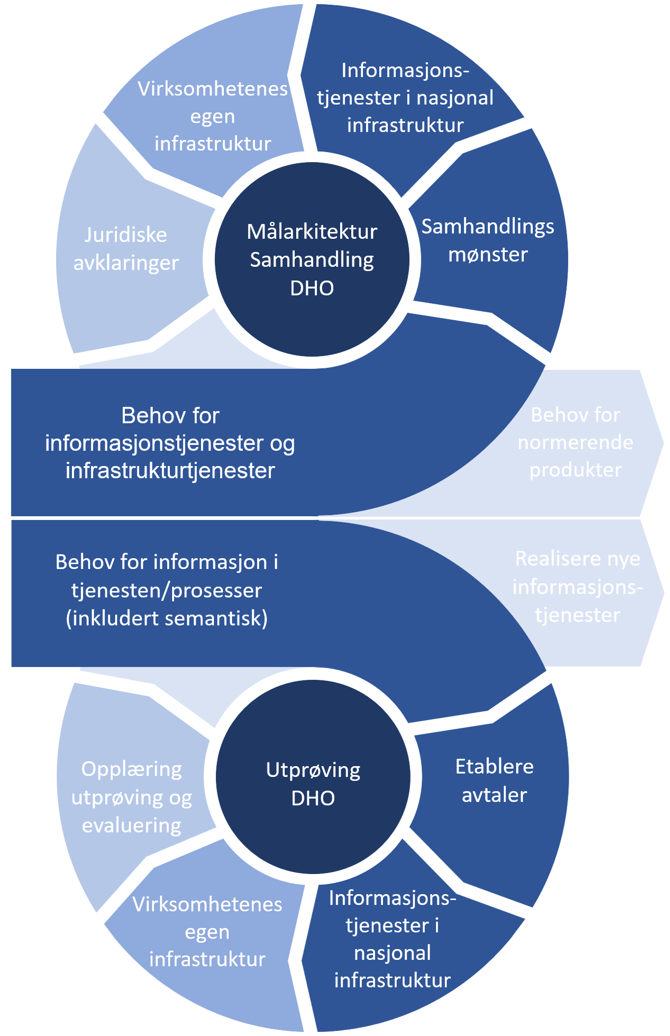
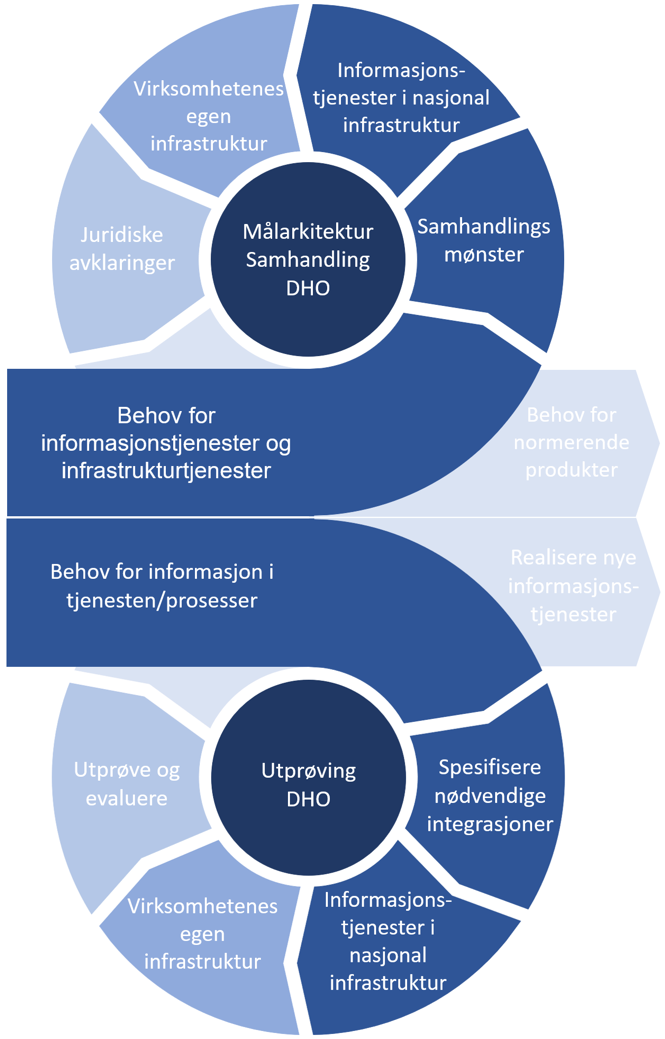
Revidere Metode og forvaltning

diff --git a/docs/Metode-og-forvaltning.md b/docs/Metode-og-forvaltning.md
@@ -4,22 +4,32 @@ title: Metode og forvaltning
 
 | Status | Version | Maturity | Normative level |
 |:-------------|:------------------|:------|:-------|
-| <span style="background-color:gold">Work in progress</span> | v0.1 | draft  | ikke normert |
+| <span style="background-color:gold">Work in progress</span> | v0.3 | draft  | ikke normert |
 
 ## Metode for utvikling av målarkitekturen
-Det er lagt til grunn smidig metodikk i utviklingen av målarkitekturen der utprøving av datadeleing og utforming av målarkitektur gjennomføres i parallell. Se figur under.
+
+Det er lagt til grunn smidig metodikk i utviklingen av målarkitekturen der utprøving av datadeling i konkrete utprøvings- og sprednings-aktiviteter knyttet til Nasjonalt velferdsteknologiprogramm og utforming av målarkitektur gjennomføres i parallell. Se figur under.
 
 ![Metode](img/metode.png){ width="500" }
 
-Gjennom dialog med helsepersonell i helsetjenesten som har etablert tjenesteforløp er behov for samhandling og informasjonsdeling identifisert og verifisert. Behovsforståelsen bygger på allerede gjennomførte kartlegginger og oppdateres løpende basert på praktiske erfaringer. 
+### Utprøving og spredningsaktiviteter i NVP
 
-Gjennom arbeidet i Nasjonalt velferdsteknologiprogram (NVP) er det identifisert utprøvingskandidater som har identifisert samhandlingsbehov på tvers av aktører og omsorgsnivå. Gjennom utvalgte utprøvingsprosjekter er velferdsteknologisk knutepunkt (VKP) benyttet for å håndtere dataflyt mellom DHO-systemer/ Medisinsk utstyr og andre fagsystem som elektroniske journalsystemer. Behovet for samhandling rundt Målinger (data fra pasient) har vært fokus for utprøving med bruk av kodeverk og terminologi/ spesifikasjoner som kan danne grunnlag for videreutvikling av normerende produkter og nasjonale samhandlingsløsninger. Målet for utprøvingsaktivitetene har vært å jobbe smidig og behovsdrevet med hyppige leveranser for å få testet ut ny funksjonalitet så langt det er mulig. Det er jobbet med utprøving ut fra en tre trinns rakett der første steg har vært journalføring, neste steg overføring av målinger fra utstyr til journal og siste steg deling av målinger. Erfaringer fra utprøvingene gir grunnlag for videreutvikling av målarkitekturen og målarkitetkuren gir rammer for utprøvingene. 
+Gjennom arbeidet i Nasjonalt velferdsteknologiprogram (NVP) er det identifisert utprøvingskandidater som har identifisert samhandlingsbehov på tvers av aktører og omsorgsnivå. Gjennom utvalgte utprøvingsprosjekter er velferdsteknologisk knutepunkt (VKP) benyttet for å håndtere dataflyt mellom DHO-systemer/ Medisinsk utstyr og andre fagsystem som elektroniske journalsystemer. Behovet for samhandling rundt Målinger (data fra pasient) har vært fokus for utprøving med bruk av kodeverk og terminologi/ spesifikasjoner som kan danne grunnlag for videreutvikling av normerende produkter og nasjonale samhandlingsløsninger. Målet for utprøvingsaktivitetene har vært å jobbe smidig og behovsdrevet med hyppige leveranser for å få testet ut ny funksjonalitet så langt det er mulig. Det er jobbet med utprøving ut fra en tre trinns rakett der første steg har vært journalføring, neste steg overføring av målinger fra utstyr til journal og siste steg deling av målinger. Erfaringer fra utprøvingene gir grunnlag for videreutvikling av målarkitekturen og målarkitetkuren gir rammer for utprøvingene.  
 
-Arbeidet vil sette retning for videre utprøvingsaktiviteter og definere rammer for utprøvingsktivetetene (juridiske, semantiske, tekniske)
+### Koblingen mellom utprøving og målarkitektur
 
-Det har vært etablert en arbeidsgruppe med representanter fra de fire regionale helseforetakene, KS, NHN, Helseforetak og utvalgte kommuner som har bidratt med innspill til arbeidet med målarkitekturen. 
+Gjennom dialog med helsepersonell i helsetjenesten som har etablert tjenesteforløp er behov for samhandling og informasjonsdeling identifisert og verifisert. Behovsforståelsen bygger på allerede gjennomførte kartlegginger og oppdateres løpende basert på praktiske erfaringer med å realisere nye tjenester som understøttes av nye informasjonstjenester som tas i bruk i helsetjenesten. Behovsarbeidet som gjennomføres i utprøvings- og sprednings-aktivitetene har vært viktige innspill til behovsarbeidet knyttet til målarkitekturen for datadeling DHO. Forskjellen er at konkret informasjonsbehov i tjenesteforløpene er "oversatt" til behov for og prioritering av informasjonstjenester i målarkitekturen.
+
+I det videre arbeidet har behovene som er sammenstilt blitt analysert og ligger til grunn for valg av samhandlingsmønster og behov for informasjonstjenester som må implementeres som fellestjenester eller informasjonstjenester i virksomhetenes infrastruktur. Dette arbeidet har ført til konkrete konsepter som er vurdert i forhold til gjeldende rett. Til slutt peker målarkitekturen på nødvendige normerende produkter for å understøtte enhetlig semantisk samhandling.  
+
+I utprøving og spredningsaktivitetene prøver virksomhetene å etablere faktisk samhandling mellom virksomhetene basert på konseptene som er tatt frem i målarkitekturen. Erfaringer med realisering og bruk av informasjonstjenestene føres tilbake i arbeidet med revisjon av målarkitekturen. Målarkitekturen vil også hjelpe utprøvings og spredningsprosjekter til å velge løsningskonsepter som kan realiseres innenfor gjeldende rett, eller føre til at prosjektene spiller inn nødvendige endringer i lovverket for å understøtte mer effektive samhandlingsløsninger på sikt.
+
+### Samarbeid og forankring
+
+Det har vært etablert en arbeidsgruppe med representanter fra de fire regionale helseforetakene, KS, NHN, Helseforetak og utvalgte kommuner som har bidratt med innspill til arbeidet med målarkitekturen. Arbeidet blir fortløpende presentert i relevante fora i nasjonal styringsmodell og andre relevante arenaer spesielt knyttet til KS og RHF-enes arkitekturarbeid.
 
 ## Forvaltning og videreutvikling av målarkitekturen
-Målarkitektur datadeling DHO/ samhandling DHO <!--Her må vi ta en sjekk gjennom kapitlene for å se eat vi bruker det samme--> har fokusert på brukstilfellet "samhandling mellom helsepersonell på tvers av virksomheter" og dette vil bli en del av den overordnede målarkitetkuren for datadeling i helse- og omsorgssektoren. 
 
-Målarkitekturen vil følge normerende produkters forvaltningsprosess hos Direktoratet for e-helse slik at den oppdateres jevnlig. Gjennom erfaring fra utprøvingsprosjekter og aktiviteter i helse- og omsorgssektoren vil Direktoratet for e-helse jobbe videre med å utvikle felles rammer knyttet til datadeling for sektoren. <!--Sette inn lenke til forvaltningsmodell for normerende produkter fra Dir for e-helse-->
+Målarkitektur datadeling DHO har fokusert på brukstilfellet "samhandling mellom helsepersonell på tvers av virksomheter" og dette er en utvidelse av den eksisterende målarkitetkuren for datadeling i helse- og omsorgssektoren som beskriver brukstilfellene for helsepersonell sin bruk av fellestjenester og innbygger sin bruk av fellestjenester.
+
+Målarkitekturen vil følge [forvaltningsprosess](https://www.ehelse.no/standardisering/standarder/forvaltningsmodell-for-normerende-produkter-fra-direktoratet-for-e-helse) for normerende produkter hos Direktoratet for e-helse slik at den oppdateres jevnlig. Gjennom erfaring fra utprøvingsprosjekter og aktiviteter i helse- og omsorgssektoren vil Direktoratet for e-helse jobbe videre med å utvikle felles rammer knyttet til datadeling for sektoren.

diff --git a/docs/Referanser.md b/docs/Referanser.md
@@ -28,7 +28,7 @@ Referanser som er brukt i arbeidet med målarkitekturen.
   * Anbefaling av tillitsmodell for data- og dokumentdeling
   * Normen for informasjonssikkerhet
 * Forvaltning
-  * Forvaltningsmodell for normerende produkter fra Direktoratet for e-helse
+  * [forvaltningsprosess](https://www.ehelse.no/standardisering/standarder/forvaltningsmodell-for-normerende-produkter-fra-direktoratet-for-e-helse)
 * Løsningsarkitektur - for forskjellige utprøvingsprosjekter (helst forskjellige løsningskonsepter)
 * Sentralt styringsdokument Akson: Helhetlig samhandling og felles kommunal journalløsning
   * [G: Løsningsomfang og -arkitektur (PDF)](https://www.ehelse.no/publikasjoner/sentralt-styringsdokument-akson-helhetlig-samhandling-og-felles-kommunal-journallosning/Vedlegg%20G%20L%C3%B8sningsomfang%20og%20arkitektur.pdf)
